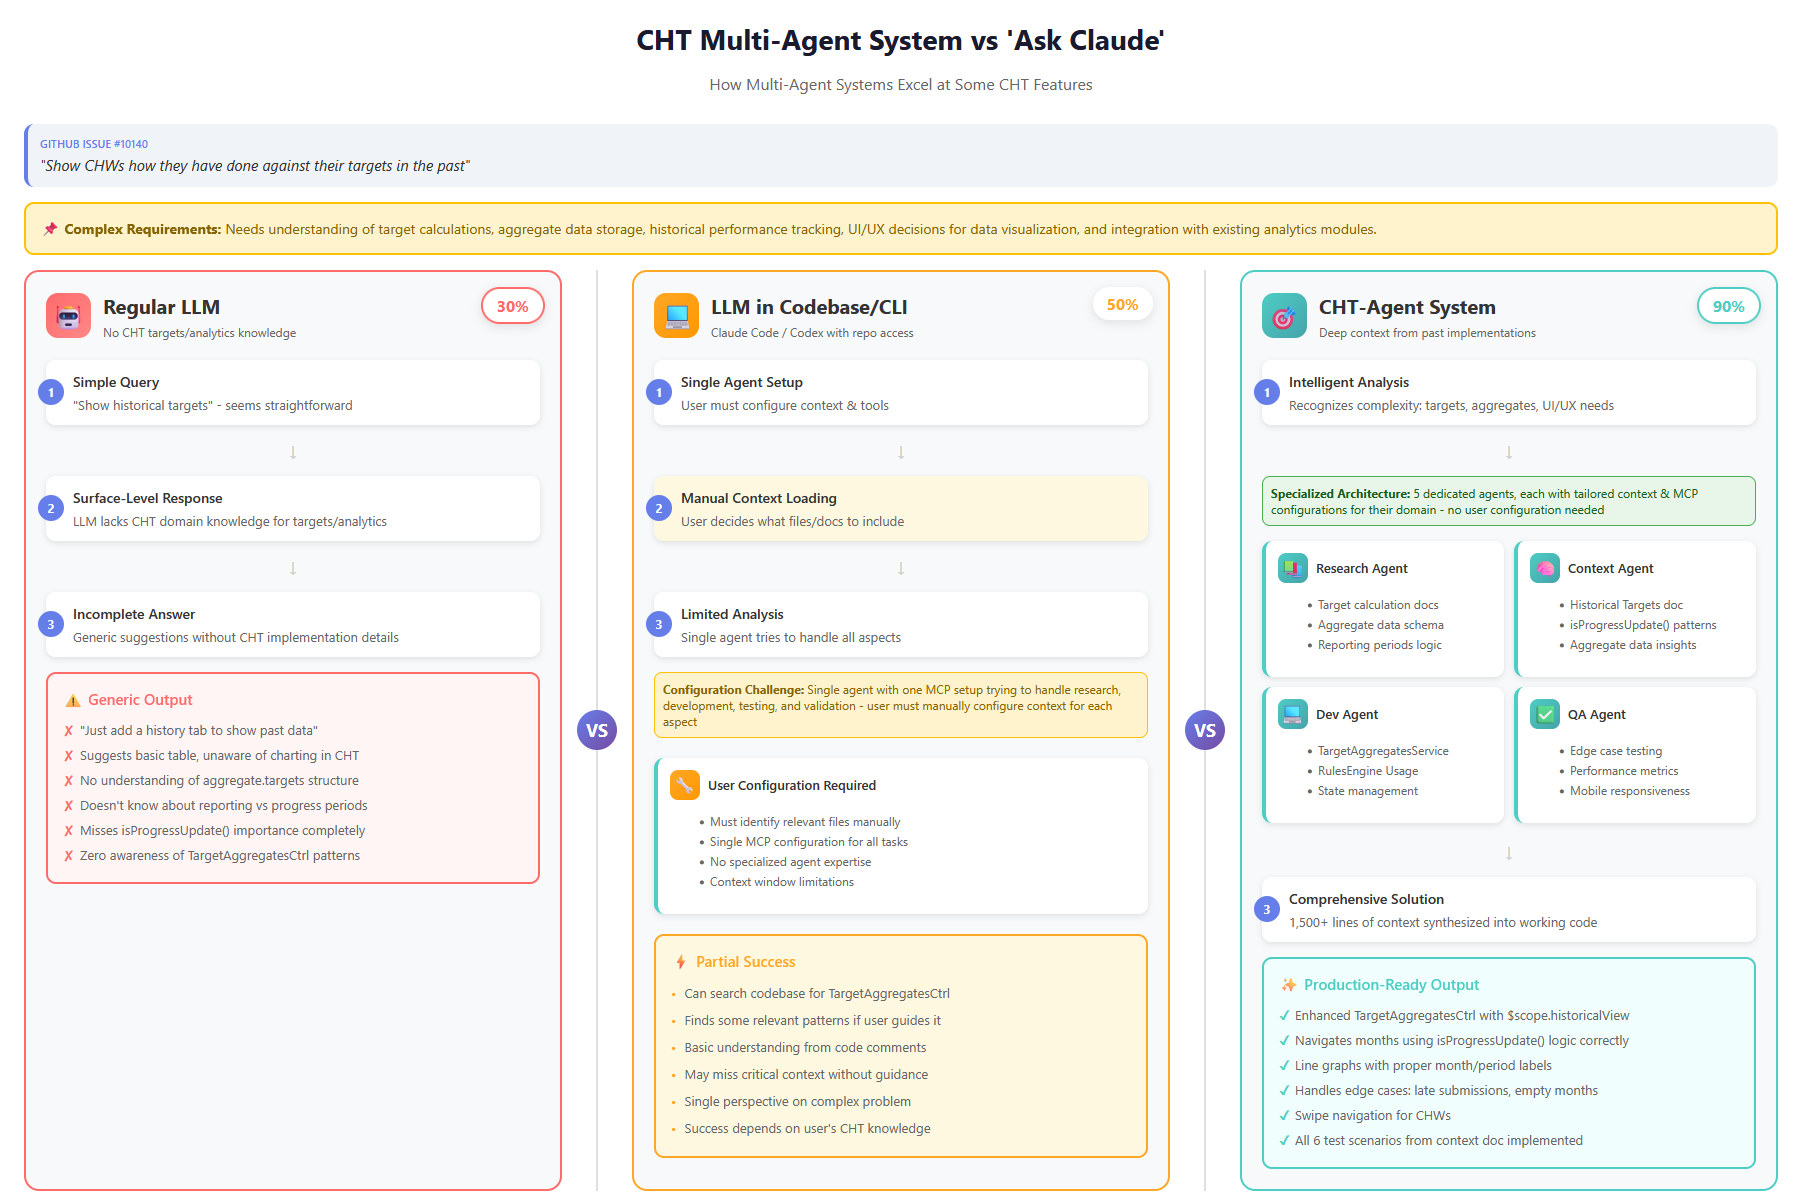
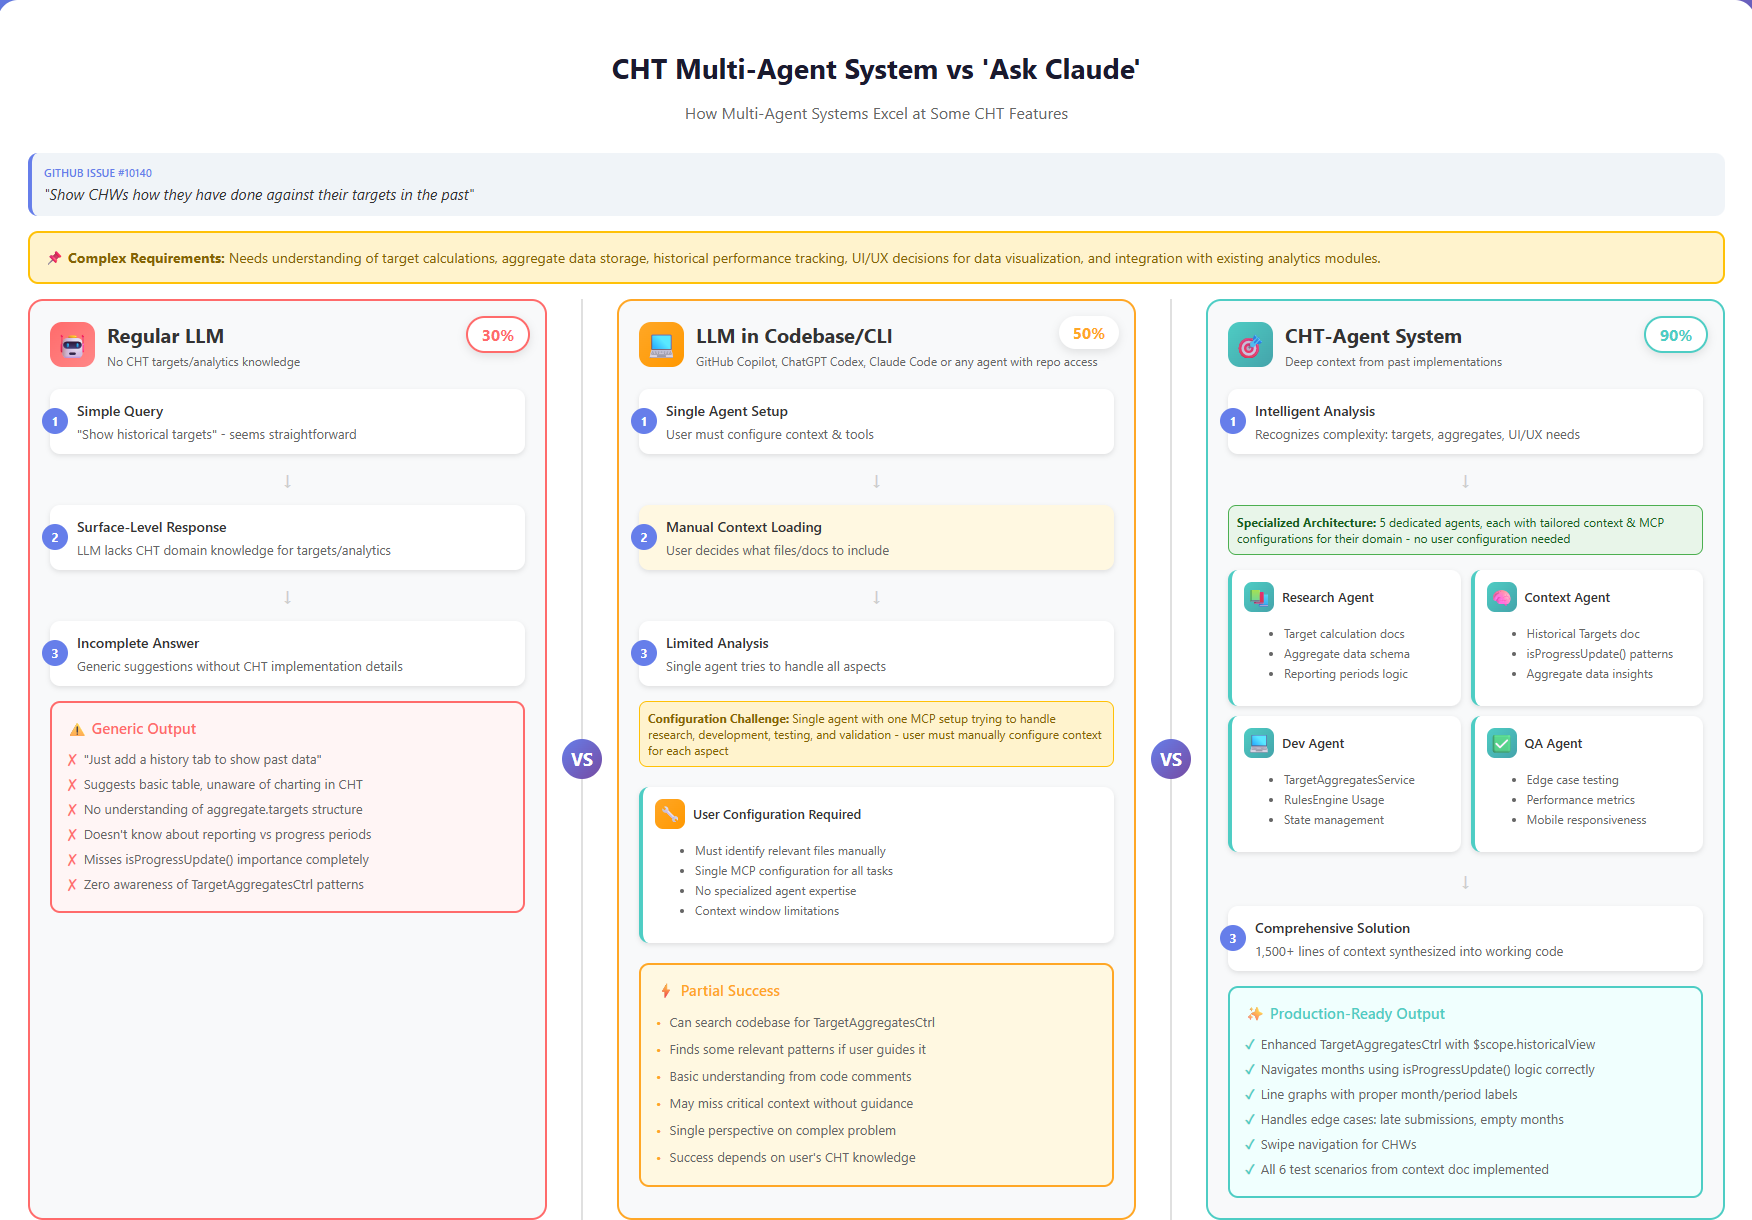
Added Stewardship & AI section. Clarified Flexibe Architecture as CHT Agent system strenghth. Clarified any model with examples of Copilot, etc

diff --git a/design/CHT Hierarchical Multi-Agent System PoC.md b/design/CHT Hierarchical Multi-Agent System PoC.md
@@ -2,7 +2,7 @@
 
 ## Notes
 We created this design based off:
-- our manual multi-agent setup that created [Historical Targets Context](https://github.com/Hareet/cht-core/blob/301ee2aadbe31a13faa5e0c086b0d25fcaf65022/webapp/src/ts/modules/analytics/CHW-Historical-Targets-Context.md) and [PR](https://github.com/Hareet/cht-core/pull/1)
+- our manual multi-agent setup that created [Historical Targets Context](https://github.com/Hareet/cht-core/blob/301ee2aadbe31a13faa5e0c086b0d25fcaf65022/webapp/src/ts/modules/analytics/CHW-Historical-Targets-Context.md) and [draft/example PR](https://github.com/Hareet/cht-core/pull/1)
 - learnings from [Agentic Design Patterns](https://docs.google.com/document/d/1rsaK53T3Lg5KoGwvf8ukOUvbELRtH-V0LnOIFDxBryE/preview?pli=1&tab=t.0)
 - This plan was generated and revised across days with Claude and edited/verified by me. 
 
@@ -15,6 +15,7 @@ Current Phase (POC/Demo)
 - Input: Structured issue templates mimicking GitHub issues
 - Processing: Multi-agent system with human validation checkpoints
 - Output: Validated code solutions with test coverage
+- Memory: Simplified RAG with context-based files in a cht-core similar directory structure
 
 Future Vision
 
@@ -57,12 +58,53 @@ Master Supervisor (Orchestrator)
 ![comparison](./cht-agent%20comparison%20llm.png)
 ![advantages](./cht-agent%20system%20advantages.png)
 
+## Philosphical Questions around Stewardship Team and AI
+
+- Why the Stewardship Team?
+  We are best situated to:
+     - Productionize the Agent System (code design, interfaces, db)
+     - Validate the context, goal-setting, and error handling
+     - Standardize the use of Agents in the CHT and their maintenance (and all of their dependencies, contexts, specialization)
+     - Further abstract our agent system to provide interfaces for non-technical community
+     - Provide community members the npm package to run the agent system locally with their model of choosing
+     - Provide a hosted service of the agent system (plus any peripheral tools/interfaces)
+  
+- What is the audience?
+  - The end-game internal audience of this is our non-technical community leads: Antony, Loukman, Nitin, etc.
+        - We describe the constraints of the agent system, and template guidance / definitions
+        - They go from design doc to agent template and create viable plan to share with partner or internal dev
+  - Our entry point to shovel in context and productionize the agent system before end-game is ourselves, medic-afya, and trusted community members.
+  - Our mid-point impact check will be medic-afya or community members using it to add context or engage with specialized agents for plans
+  - The result will be non-technical community members flourishing
+
+- What does this cost?
+  - It's up to you
+  - Depending on what model you use and how you are using it.
+  - We can rate-limit accordingly
+      - No one should be using this for immediacy, so "Oh, you've reached your Claude Pro or whatever LLM Max Cost setting, we will try in 1-2 hours" error-handling
+  - When using it in Dev environment as an individual, you can use Claude Code and non-interactive mode
+  - When using it in CI/CD, they want to push you to a license and API key (per-use charged)
+  - Before we reach any hosted agent-system service or end-game audience scenario with interfaces for non-technical people, we can chart out costs per model and research which model is most accurate for cheap with our validated context
+  - For our development time, we need a few of us with Claude Max, and some with Claude Pro.
+
+- Where do we start?
+  - Path #1: If people still need convincing -> Hareet creates a demo by himself and manually pushes it to resolve a few easy GH issue to demonstrate. 
+      - Anthropic is using Claude to write most (70%) of Claude Code. [Interview](https://www.youtube.com/watch?v=zDmW5hJPsvQ)
+         - If we take 10% of that statement as true, it's an outsized impact to us.
+  - Path #2: Path 1 but with additional support feedback from interested people
+  - Path #3: Team collaboration and divide & conquer and aim for a proper agent system. I already have ideas on how we could finish this as a team based on subjects people enjoy.
+
+- Models move fast, Anthropic announced [Claude Sonnet 4.5 on 9/29](https://www.anthropic.com/news/claude-sonnet-4-5)
+  - Our agent system will incorporate any model, and be better fit than any general straight-to-LLM query, or user-created single-agent context and configuration.
+  - By the time we have validated context and productionized an agent-system, models 5+ or 6+ could be on the horizon.
+
 ## Core Design Principles
 
-1. **Tool Orchestration Over Reinvention**: Agents act as intelligent coordinators of existing CHT tools (cht-conf, cht-toolbox, cht-datasource, cht-docs, npm scripts) rather than implementing custom validation
-2. **Context-Based Learning**: Lightweight file-based memory system that mirrors CHT repository structure
-3. **Incremental Value Delivery**: Each agent provides immediate value while building knowledge over time
-4. **Developer-Friendly Integration**: Seamless integration with existing npm scripts and development workflows
+1. **Run locally with any model**: Use your own model, plan your own costs, to query any specialized agent or plan a multi-agent solution to an issue.
+2. **Tool Orchestration Over Reinvention**: Agents act as intelligent coordinators of existing CHT tools (cht-conf, cht-toolbox, cht-datasource, cht-docs, npm scripts) rather than implementing custom validation
+3. **Context-Based Learning**: Lightweight file-based memory system that mirrors CHT repository structure
+4. **Incremental Value Delivery**: Each agent provides immediate value while building knowledge over time
+5. **Developer-Friendly Integration**: Seamless integration with existing npm scripts and development workflows
 
 ## Agent Specifications
 
